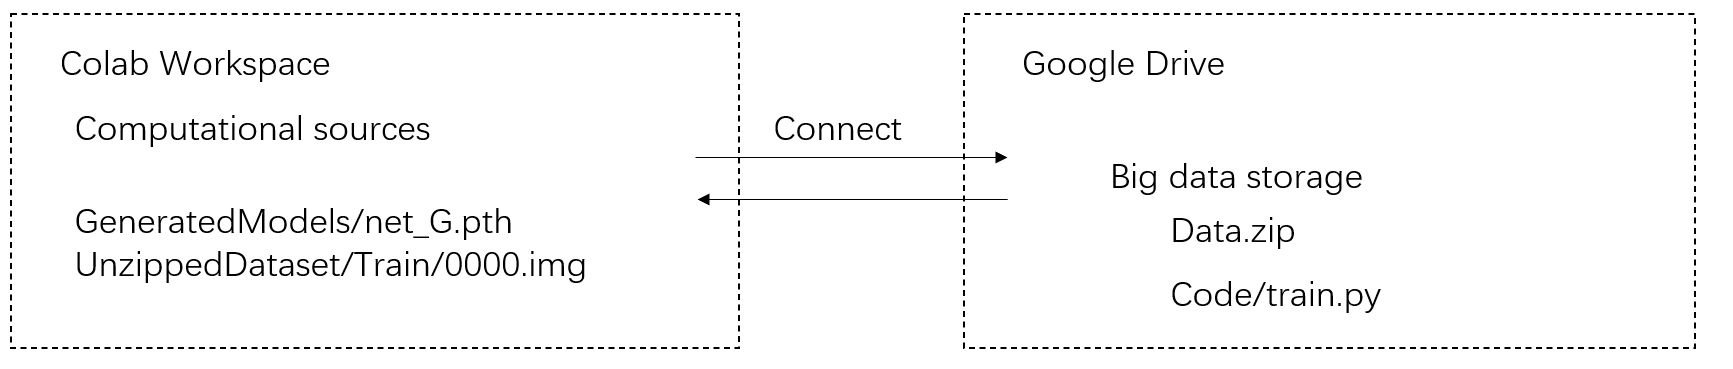
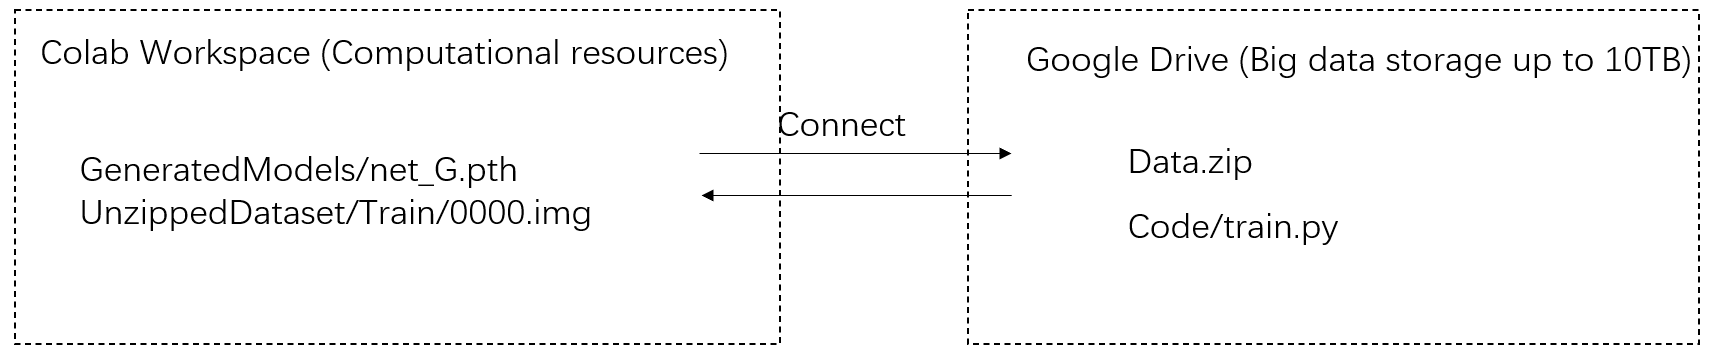
README

diff --git a/README.md b/README.md
@@ -1,2 +1,16 @@
-# google_colab_config
-My own cofiguration of google colab pro+
+<img src='misc/architecture.png'>
+
+# Colab Pro+
+RAM: ~51GB.
+
+Disk: ~166GB.
+
+Possibly allocated GPU: Tesla V100 / Tesla P100.
+
+# Small Tips
+- If not allocated with V100, disconnect the session and try with luck again.
+- Loading data from Google Drive is very slow, put your dataset in Colab Workspace.
+- Small files will slow down the transfer speed between Google Drive and Colab Workspace, make sure files are zipped before transferring.
+- It is extremely slow to directly zip/unzip files on Google Drive. 
+- Colab internet speed is very fast, consider [wget](https://www.gnu.org/software/wget/) to download datasets online.
+- It is possible files break when transferring between Google Drive and Colab Workspace, just try it again.
